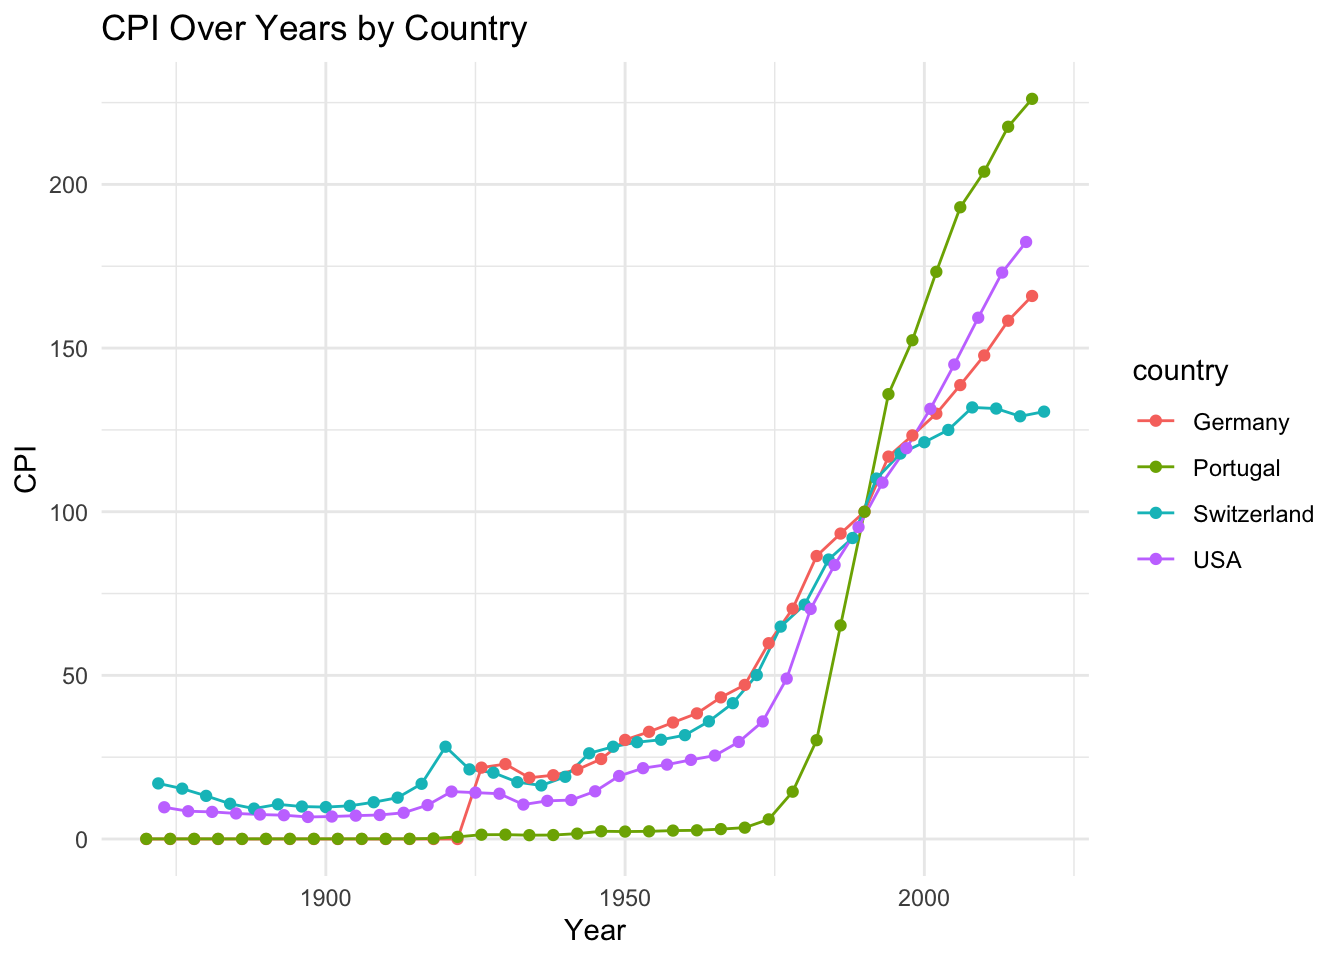
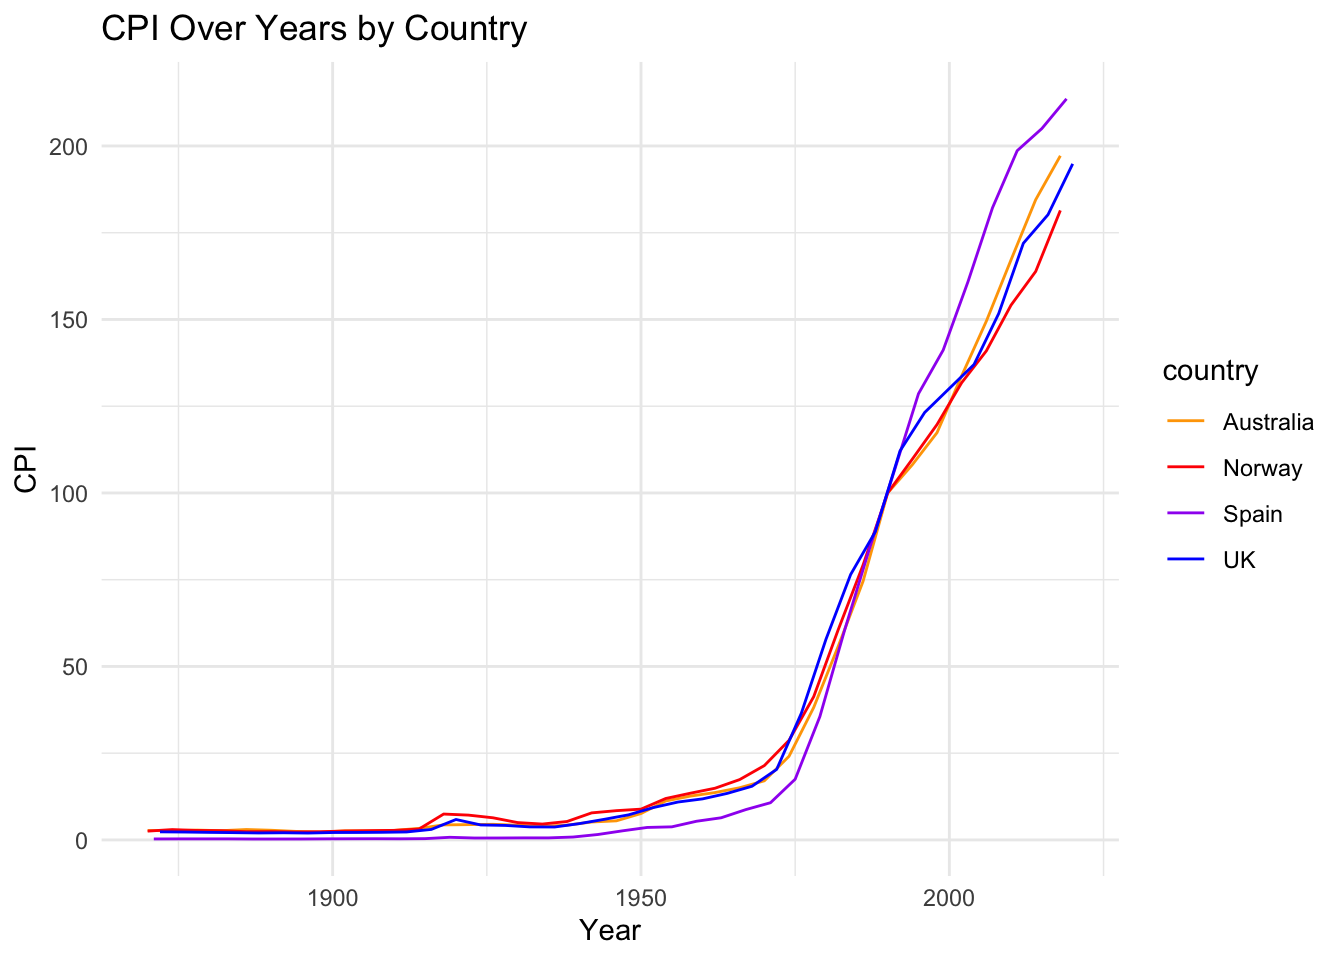
macrohistory data, 4 countries, plot, RR 17 Sept

diff --git a/content/projects/macro_cpi.md b/content/projects/macro_cpi.md
@@ -1,19 +1,22 @@
 ---
-categories:  
-- ""    #the front matter should be like the one found in, e.g., blog2.md. It cannot be like the normal Rmd we used
-- ""
+title: "Macrohistory"
+author: "qi ren"
 date: "2023-09-13"
-description: Macrohistory Data Wrangling (CPI) # the title that will show up once someone gets to this page
-draft: false
-image: macro_cpi.jpg # save picture in \static\img\blogs. Acceptable formats= jpg, jpeg, or png . Your iPhone pics wont work
-
-keywords: ""
-slug: macro_cpi # slug is the shorthand URL address... no spaces plz
-title: Macrohistory Data Wrangling 1
+output:
+  pdf_document:
+    toc: yes
+  word_document:
+    toc: yes
+  html_document:
+    theme: flatly
+    highlight: zenburn
+    number_sections: yes
+    toc: yes
+    toc_float: yes
+    code_folding: show
 ---
 
 
-![](../../../../../../../../../../../../img/macro_cpi.jpg)<!-- -->
 
 
 
@@ -104,14 +107,14 @@ Four countries and their CPI data over the years (Germany, Portugal, USA, and Sw
 # Filter the dataframe
 four_countries <- country_data %>% 
   filter(
-  country == c("Germany", "Portugal", "USA", "Switzerland")
+  country == c("Australia", "UK", "Norway", "Spain")
 )
 ```
 
 ```
 ## Warning: There was 1 warning in `filter()`.
-## ℹ In argument: `country == c("Germany", "Portugal", "USA", "Switzerland")`.
-## Caused by warning in `country == c("Germany", "Portugal", "USA", "Switzerland")`:
+## ℹ In argument: `country == c("Australia", "UK", "Norway", "Spain")`.
+## Caused by warning in `country == c("Australia", "UK", "Norway", "Spain")`:
 ## ! longer object length is not a multiple of shorter object length
 ```
 
@@ -132,21 +135,21 @@ four_countries %>%
 ```
 
 ```
-## # A tibble: 151 × 3
+## # A tibble: 152 × 3
 ## # Groups:   country [4]
-##    country      year   cpi
-##    <chr>       <dbl> <dbl>
-##  1 Switzerland  1872 17.0 
-##  2 Switzerland  1876 15.4 
-##  3 Switzerland  1880 13.2 
-##  4 Switzerland  1884 10.8 
-##  5 Switzerland  1888  9.30
-##  6 Switzerland  1892 10.6 
-##  7 Switzerland  1896  9.92
-##  8 Switzerland  1900  9.76
-##  9 Switzerland  1904 10.1 
-## 10 Switzerland  1908 11.2 
-## # ℹ 141 more rows
+##    country    year   cpi
+##    <chr>     <dbl> <dbl>
+##  1 Australia  1870  2.71
+##  2 Australia  1874  2.67
+##  3 Australia  1878  2.83
+##  4 Australia  1882  2.67
+##  5 Australia  1886  3   
+##  6 Australia  1890  2.79
+##  7 Australia  1894  2.46
+##  8 Australia  1898  2.25
+##  9 Australia  1902  2.62
+## 10 Australia  1906  2.58
+## # ℹ 142 more rows
 ```
 
 ## Plotting the graph
